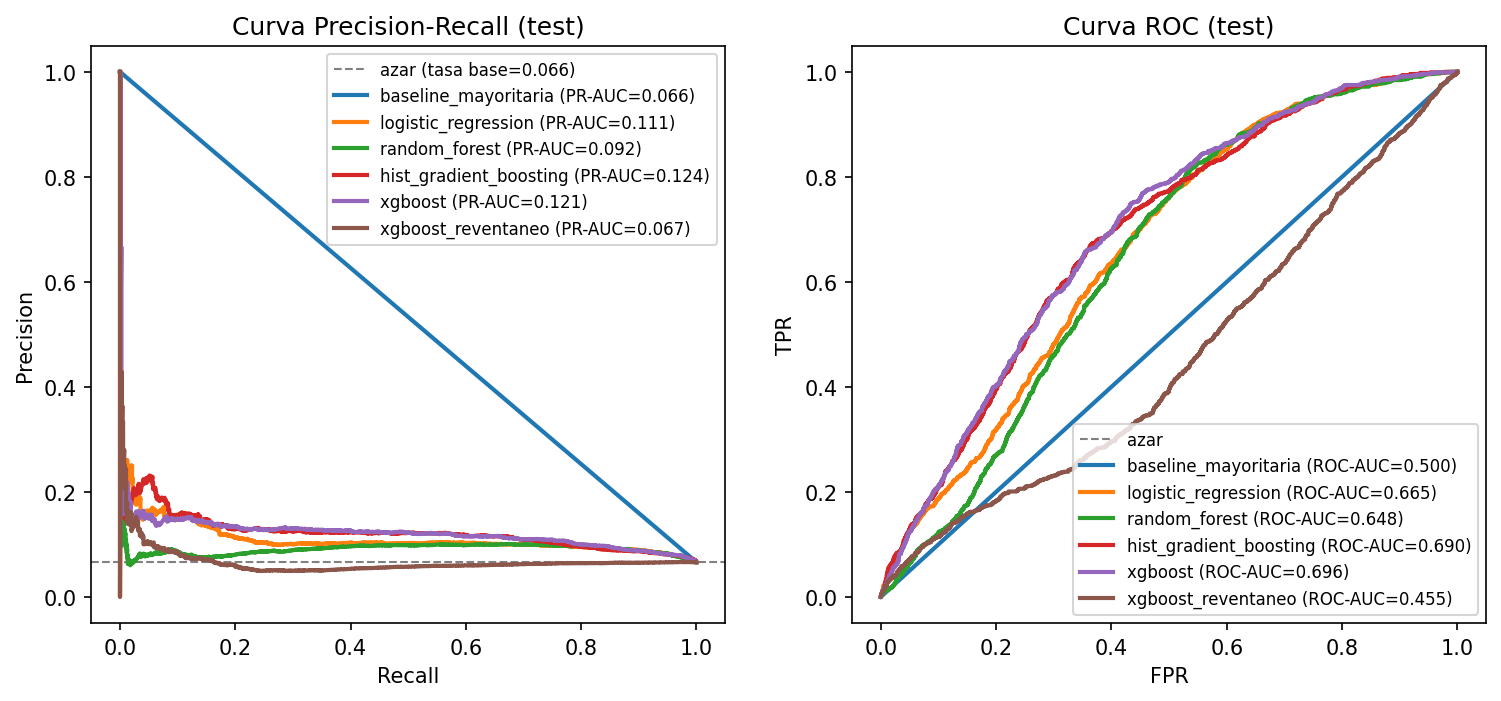
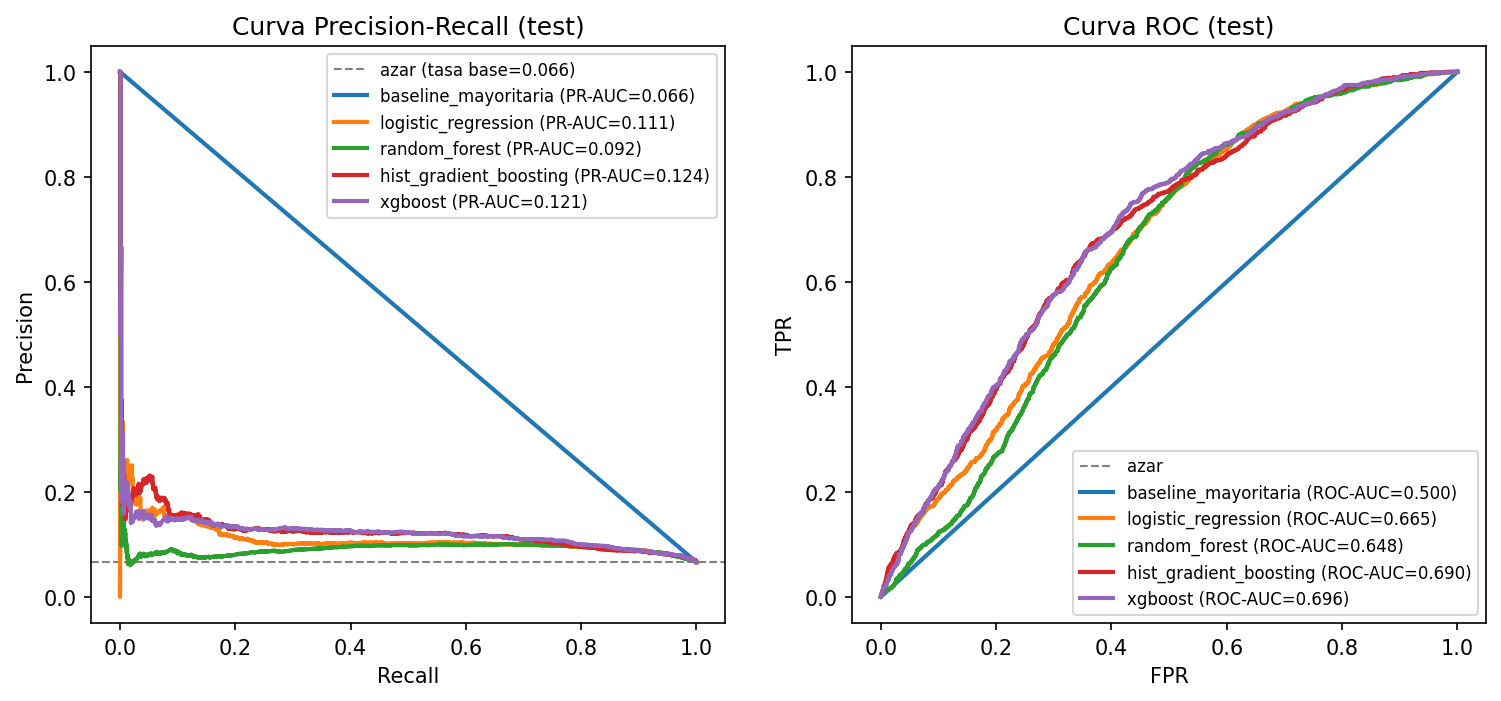
fix(modeling): atender revision de Amaury (figuras) y agregar CV temporal
- Region (03): tasa real y recall en paneles SEPARADOS; el recall ahora usa el
  modelo recomendado en su punto de operacion (antes binario @user, subestimaba).
- Nueva fig 07: recall comparado por modelo (umbral F1).
- Nueva fig 08: matrices de confusion binarias por CADA modelo, en el punto de
  despliegue (recall~0.80).
- Nueva fig 09: validacion cruzada TEMPORAL (TimeSeriesSplit) para robustez
  estacional; revela periodos atipicos (tasa base 4.5% -> 17.2% -> 6%).
- Reporte: nota de que la regresion es ranqueador de riesgo calibrado (no
  estimador de dias) y aclaracion de los puntos de operacion entre figuras.
- evaluate.py: helpers de graficas (region separada, recall por modelo, CM
  binarias, CV temporal) -- aditivo. pytest 5/5; metricas verificadas vs JSON.

diff --git a/src/models/train_multimodelo.py b/src/models/train_multimodelo.py
@@ -61,6 +61,7 @@ from sklearn.metrics import (  # noqa: E402
     brier_score_loss,
     roc_auc_score,
 )
+from sklearn.model_selection import TimeSeriesSplit  # noqa: E402
 from sklearn.pipeline import Pipeline  # noqa: E402
 from sklearn.utils.class_weight import compute_sample_weight  # noqa: E402
 from xgboost import XGBClassifier, XGBRegressor  # noqa: E402
@@ -250,14 +251,29 @@ def run_binario(train, val, test) -> dict:
     tabla_cold = ev.analisis_cold_start(test, y_te, proba_test_all[mejor], umbral_f1)
 
     # --- Figuras ----------------------------------------------------------- #
-    curvas = {k: v for k, v in proba_test_all.items() if not k.endswith("_calibrado")}
+    FAMILIAS = ["logistic_regression", "random_forest", "hist_gradient_boosting", "xgboost"]
+    curvas = {k: v for k, v in proba_test_all.items() if not k.endswith(("_calibrado", "_reventaneo"))}
     ev.graficar_curvas_pr_roc(curvas, y_te, FIG_DIR)
     cal_plot = {mejor: proba_test_all[mejor]}
     if calib["ok"]:
         cal_plot[f"{mejor}_calibrado"] = proba_test_all[f"{mejor}_calibrado"]
     ev.graficar_calibracion(cal_plot, y_te, FIG_DIR)
     ev.graficar_importancias(importancias, f"Importancias — {mejor} (binario)", FIG_DIR, "04_importancias_binario.png")
-    ev.graficar_error_regional(tabla_region, FIG_DIR)
+    # (revisión Amaury #1) La figura por región (03) se genera en run_regresion con el
+    # MODELO RECOMENDADO en su punto de operación (no el binario @F1, que subestima el recall).
+    # (revisión Amaury #2) recall comparado por modelo
+    ev.graficar_recall_por_modelo({n: resultados[n]["test"] for n in FAMILIAS}, FIG_DIR, "07_recall_por_modelo.png")
+    # (revisión Amaury #3) matriz de confusión binaria por CADA modelo, en el punto de
+    # operación que se desplegaría (alto recall), no el umbral F1 que subestima la tardanza.
+    RECALL_CM = 0.80
+    preds_por_modelo = {
+        n: (proba_test_all[n] >= ev.umbral_para_recall(y_va, proba_val_all[n], RECALL_CM)).astype(int)
+        for n in FAMILIAS
+    }
+    ev.graficar_matrices_confusion_binarias(
+        preds_por_modelo, y_te, FIG_DIR, "08_matrices_confusion_binarias.png",
+        subtitulo=f"punto recall≈{RECALL_CM:.2f} (el que se desplegaría)",
+    )
 
     # --- Serialización ----------------------------------------------------- #
     ARTIFACTS.mkdir(parents=True, exist_ok=True)
@@ -464,6 +480,16 @@ def run_regresion(train, val, test) -> dict:
     print(f"  modelo de riesgo confiable: ROC={riesgo['roc_auc']:.3f} PR-AUC={riesgo['pr_auc']:.3f} "
           f"Brier={riesgo['brier']:.3f}  (regresion calibrada)")
 
+    # (revisión Amaury #1) Recall por región DEL MODELO RECOMENDADO en su punto de operación
+    # (recall≈0.70). Reemplaza la versión que usaba el binario @F1 (subestimaba el recall).
+    u_fig = puntos["recall_obj_70"]["umbral"]
+    pred_fig = (pte >= u_fig).astype(int)
+    tabla_region_riesgo = ev.analisis_por_region(test, y_te_bin, pred_fig)
+    ev.graficar_region_separado(
+        tabla_region_riesgo, FIG_DIR, "03_region_separado.png",
+        etiqueta_recall="modelo recomendado (regresión calibrada) · punto recall≈0.70",
+    )
+
     ARTIFACTS.mkdir(parents=True, exist_ok=True)
     joblib.dump(
         {
@@ -582,6 +608,12 @@ def escribir_reporte(salida: dict) -> None:
     L.append(f"\n- **Binario derivado** (predecir días y alertar si > 0): PR-AUC **{d['pr_auc']:.4f}**, "
              f"ROC-AUC **{d['roc_auc']:.4f}**, recall(umbral 0) {d['recall_umbral0']:.3f}. "
              "Vía alternativa al clasificador directo.")
+    L.append("\n> **Importante (interpretación):** la regresión se usa como **ranqueador de riesgo** "
+             "(su salida se **calibra** a probabilidad de retraso), **NO** como estimador de los días "
+             "exactos. Por la cola pesada y el techo de datos, *encoge* las predicciones hacia el promedio "
+             "y **subestima la magnitud de los tardíos** (ver `06_regresion_pred_vs_real.png`: las órdenes "
+             "muy tardías se predicen cerca de 0). Por eso se opera con el **umbral calibrado**, no con "
+             "`días>0` (que daría recall ≈0.03).")
     L.append("")
     r = rg["modelo_riesgo_confiable"]
     L.append("## 4. Modelo de riesgo CONFIABLE (recomendado)\n")
@@ -597,17 +629,72 @@ def escribir_reporte(salida: dict) -> None:
     L.append("\n> **Hallazgo (D-32):** añadir features [t0] derivadas (tasas point-in-time por ruta/categoría, "
              "estacionalidad) **no mejora** — degrada el test (ROC 0.696→0.591) por drift de régimen (R-14). "
              "El techo de P1 lo fijan los datos, no el modelado.\n")
+    cvd = salida.get("cv_temporal")
+    if cvd:
+        L.append("## 5. Validación cruzada TEMPORAL (robustez ante estacionalidad)\n")
+        L.append("TimeSeriesSplit (5 folds) sobre la serie ordenada por fecha: cada fold entrena en el "
+                 "pasado y evalúa en el período siguiente (no es aleatoria; no sustituye al test). "
+                 "Comprueba si los modelos aguantan los cambios estacionales/atípicos de la serie (R-14).\n")
+        L.append("| Modelo | ROC-AUC medio | ± std | PR-AUC medio | ± std |")
+        L.append("|---|---|---|---|---|")
+        for m, dd in cvd.items():
+            L.append(f"| {m} | {dd['roc_auc_media']:.3f} | {dd['roc_auc_std']:.3f} | "
+                     f"{dd['pr_auc_media']:.3f} | {dd['pr_auc_std']:.3f} |")
+        L.append("\nDesviación baja ⇒ modelo robusto entre períodos. Ver `figuras/09_cv_temporal.png` "
+                 "(la línea de tasa base muestra dónde están los períodos atípicos).\n")
+
     L.append("## Artefactos y figuras\n")
     L.append("- Modelos: `artifacts/modelo_riesgo_p1.joblib` (recomendado), `modelo_binario.joblib`, "
              "`modelo_multiclase.joblib`, `modelo_regresion.joblib`.")
-    L.append("- Figuras: `reports/multimodelo/figuras/` (curvas PR/ROC, calibración, importancias, "
-             "matriz de confusión, regresión pred-vs-real, error regional).")
+    L.append("- Figuras: `reports/multimodelo/figuras/` — curvas PR/ROC (01), calibración (02), "
+             "región tasa-real vs recall **separadas** (03), importancias (04), confusión multiclase (05), "
+             "regresión pred-vs-real (06), **recall por modelo** (07), **matrices de confusión binarias por "
+             "modelo** (08), **CV temporal** (09).")
+    L.append("- **Punto de operación en cada figura (a propósito difieren):** la **03** usa el modelo "
+             "recomendado en su punto de despliegue (recall≈0.70); la **07** compara los modelos en su "
+             "umbral **F1** (recall natural, para rankearlos); la **08** usa el punto de **despliegue "
+             "(recall≈0.80)**. Por eso el recall no es el mismo entre figuras: cada una responde a una "
+             "pregunta distinta.")
     L.append("- Métricas reproducibles: `reports/multimodelo/metrics_multimodelo.json`.\n")
     L.append("*Mismas features [t0] y split temporal de la Etapa 3; sin fuga. Reproducible con "
              "`python -m src.models.train_multimodelo`.*")
 
     with open(REPORTS / "resultados_multimodelo.md", "w", encoding="utf-8") as f:
         f.write("\n".join(L))
+
+
+# --------------------------------------------------------------------------- #
+# Validación cruzada TEMPORAL (robustez ante estacionalidad) — revisión Amaury #4
+# --------------------------------------------------------------------------- #
+def cross_validation_temporal(df, n_splits: int = 5) -> dict:
+    """TimeSeriesSplit sobre la serie completa ordenada por fecha.
+
+    Diagnóstico de robustez: cada fold entrena en el pasado y evalúa en el bloque
+    siguiente (un período/temporada distinto). NO es validación aleatoria (eso
+    reintroduciría fuga temporal, D-25) y NO sustituye al test hold-out (que se
+    reporta una sola vez). Sirve para ver si los modelos se mantienen estables
+    ante los cambios estacionales / comportamientos atípicos de la serie (R-14).
+    """
+    d = df.sort_values(["order_purchase_timestamp", "order_id"]).reset_index(drop=True)
+    X, y = d[X_COLS], d[CLASSIFICATION_TARGET].values
+    tscv = TimeSeriesSplit(n_splits=n_splits)
+    familias = ["logistic_regression", "random_forest", "hist_gradient_boosting", "xgboost"]
+    cv = {n: {"pr_auc": [], "roc_auc": [], "recall": [], "tasa_base": []} for n in familias}
+    print(f"\n=== Validación cruzada TEMPORAL (TimeSeriesSplit, {n_splits} folds) — robustez estacional ===")
+    for k, (itr, ite) in enumerate(tscv.split(X), 1):
+        ytr, yte = y[itr], y[ite]
+        Xtr, Xte = X.iloc[itr], X.iloc[ite]
+        for nombre, pipe in familias_binario(ytr).items():
+            pipe.fit(Xtr, ytr)
+            u = ev.seleccionar_umbral_f1(ytr, _proba1(pipe, Xtr))
+            m = ev.calcular_metricas(yte, _proba1(pipe, Xte), u)
+            cv[nombre]["pr_auc"].append(m["pr_auc"])
+            cv[nombre]["roc_auc"].append(m["roc_auc"])
+            cv[nombre]["recall"].append(m["recall"])
+            cv[nombre]["tasa_base"].append(float(yte.mean()))
+        print(f"  fold {k}: n_train={len(itr):>6} n_test={len(ite):>5} "
+              f"tasa_base(fold)={yte.mean()*100:4.1f}%  ROC(xgb)={cv['xgboost']['roc_auc'][-1]:.3f}")
+    return cv
 
 
 # --------------------------------------------------------------------------- #
@@ -629,6 +716,18 @@ def run(data_path: Path) -> dict:
         "binario": run_binario(train, val, test),
         "multiclase": run_multiclase(train, val, test),
         "regresion": run_regresion(train, val, test),
+    }
+    cv = cross_validation_temporal(df, n_splits=5)
+    ev.graficar_cv_temporal(cv, FIG_DIR, "09_cv_temporal.png")
+    salida["cv_temporal"] = {
+        m: {
+            "roc_auc_media": float(np.mean(d["roc_auc"])), "roc_auc_std": float(np.std(d["roc_auc"])),
+            "pr_auc_media": float(np.mean(d["pr_auc"])), "pr_auc_std": float(np.std(d["pr_auc"])),
+            "roc_auc_folds": [round(x, 4) for x in d["roc_auc"]],
+            "recall_folds": [round(x, 4) for x in d["recall"]],
+            "tasa_base_folds": [round(x, 4) for x in d["tasa_base"]],
+        }
+        for m, d in cv.items()
     }
     escribir_reporte(salida)
     print(f"\n[ok] reporte -> {REPORTS / 'resultados_multimodelo.md'}")

diff --git a/src/models/evaluate.py b/src/models/evaluate.py
@@ -364,3 +364,103 @@ def graficar_pred_vs_real(
     ax.set(xlabel="Real (días)", ylabel="Predicho (días)", title=titulo)
     ax.legend(fontsize=8)
     _guardar(fig, fig_dir, nombre)
+
+
+# --------------------------------------------------------------------------- #
+# Gráficas pedidas en la revisión de la Etapa 4 (Amaury)
+# --------------------------------------------------------------------------- #
+def graficar_region_separado(tabla: pd.DataFrame, fig_dir: Path, nombre: str, etiqueta_recall: str = "") -> None:
+    """Dos paneles SEPARADOS porque miden cosas distintas:
+    (izq) % real de entregas tardías por región; (der) recall del modelo por región.
+    No se superponen para no sugerir que son comparables en el mismo eje.
+    """
+    t = tabla[tabla["region"] != "Otro"].copy().sort_values("tasa_tarde_real", ascending=False)
+    fig, (ax1, ax2) = plt.subplots(1, 2, figsize=(13, 5))
+    ax1.bar(t["region"], t["tasa_tarde_real"] * 100, color="#c0504d")
+    ax1.set(title="Tasa REAL de entregas tardías por región",
+            ylabel="% de órdenes que llegan tarde", xlabel="Región")
+    for i, v in enumerate(t["tasa_tarde_real"]):
+        ax1.text(i, v * 100, f"{v*100:.1f}%", ha="center", va="bottom", fontsize=9)
+    ax2.bar(t["region"], t["recall_tarde"], color="#2b6cb0")
+    titulo_recall = ("RECALL por región — " + etiqueta_recall) if etiqueta_recall else \
+        "RECALL del modelo por región (capacidad de detección)"
+    ax2.set(title=titulo_recall,
+            ylabel="Recall (fracción de tardíos detectados)", xlabel="Región", ylim=(0, 1))
+    for i, v in enumerate(t["recall_tarde"]):
+        if not np.isnan(v):
+            ax2.text(i, v, f"{v:.2f}", ha="center", va="bottom", fontsize=9)
+    fig.suptitle("Por región: la TASA REAL (qué tan tarde llega) y el RECALL (cuánto detecta el "
+                 "modelo) son métricas distintas — se grafican por separado", fontsize=10)
+    _guardar(fig, fig_dir, nombre)
+
+
+def graficar_recall_por_modelo(metricas_por_modelo: dict, fig_dir: Path, nombre: str) -> None:
+    """Compara entre modelos del binario (test, umbral F1): recall, precision y PR-AUC."""
+    nombres = list(metricas_por_modelo.keys())
+    recall = [metricas_por_modelo[n]["recall"] for n in nombres]
+    prec = [metricas_por_modelo[n]["precision"] for n in nombres]
+    prauc = [metricas_por_modelo[n]["pr_auc"] for n in nombres]
+    x = np.arange(len(nombres)); w = 0.27
+    fig, ax = plt.subplots(figsize=(10, 5.5))
+    ax.bar(x - w, recall, w, label="Recall", color="#2b6cb0")
+    ax.bar(x, prec, w, label="Precision", color="#c0504d")
+    ax.bar(x + w, prauc, w, label="PR-AUC", color="#5a9367")
+    for i in range(len(nombres)):
+        ax.text(x[i] - w, recall[i], f"{recall[i]:.2f}", ha="center", va="bottom", fontsize=8)
+    ax.set_xticks(x, nombres, rotation=20, ha="right")
+    ax.set(title="Comparación por modelo — binario (test, umbral F1)", ylabel="Valor")
+    ax.legend()
+    _guardar(fig, fig_dir, nombre)
+
+
+def graficar_matrices_confusion_binarias(
+    preds_por_modelo: dict, y_true: np.ndarray, fig_dir: Path, nombre: str,
+    subtitulo: str = "umbral F1",
+) -> None:
+    """Una matriz de confusión por CADA modelo binario entrenado (grid, normalizada por fila)."""
+    labels = [0, 1]; nice = ["a tiempo (0)", "tarde (1)"]
+    modelos = list(preds_por_modelo.keys()); n = len(modelos)
+    cols = 2; rows = int(np.ceil(n / cols))
+    fig, axes = plt.subplots(rows, cols, figsize=(5 * cols, 4.3 * rows))
+    axes = np.atleast_1d(axes).ravel()
+    for ax, m in zip(axes, modelos):
+        cm = confusion_matrix(y_true, preds_por_modelo[m], labels=labels).astype(float)
+        cmn = cm / cm.sum(axis=1, keepdims=True).clip(min=1e-9)
+        ax.imshow(cmn, cmap="Blues", vmin=0, vmax=1)
+        ax.set_xticks([0, 1], nice, fontsize=8)
+        ax.set_yticks([0, 1], nice, fontsize=8)
+        for i in range(2):
+            for j in range(2):
+                ax.text(j, i, f"{int(cm[i, j])}\n{cmn[i, j]:.2f}", ha="center", va="center",
+                        color="white" if cmn[i, j] > 0.5 else "black", fontsize=9)
+        ax.set(title=m, xlabel="Predicho", ylabel="Real")
+    for ax in axes[n:]:
+        ax.axis("off")
+    fig.suptitle(f"Matrices de confusión por modelo — binario (test, {subtitulo}; normalizadas por fila)", fontsize=11)
+    _guardar(fig, fig_dir, nombre)
+
+
+def graficar_cv_temporal(cv: dict, fig_dir: Path, nombre: str) -> None:
+    """Estabilidad de cada métrica a lo largo de los folds temporales (TimeSeriesSplit).
+
+    `cv` = {modelo: {'pr_auc': [...], 'roc_auc': [...], 'recall': [...], 'tasa_base': [...]}}.
+    Si las líneas se mantienen planas → modelo robusto ante cambios estacionales; si caen en
+    algún fold → sensible al régimen de ese período.
+    """
+    paneles = [("roc_auc", "ROC-AUC"), ("pr_auc", "PR-AUC"), ("recall", "Recall")]
+    fig, axes = plt.subplots(1, 3, figsize=(15, 4.6))
+    for ax, (key, tit) in zip(axes, paneles):
+        for m, d in cv.items():
+            folds = np.arange(1, len(d[key]) + 1)
+            ax.plot(folds, d[key], "o-", lw=1.8, label=m)
+        ax.set(title=f"{tit} por fold", xlabel="Fold temporal (períodos sucesivos →)", ylabel=tit)
+        ax.grid(alpha=0.3)
+    # tasa base por fold (contexto del cambio estacional) en el eje del recall
+    any_model = next(iter(cv.values()))
+    folds = np.arange(1, len(any_model["tasa_base"]) + 1)
+    axes[2].plot(folds, any_model["tasa_base"], "k--", lw=1.2, label="tasa base (real)")
+    axes[0].legend(fontsize=7)
+    axes[2].legend(fontsize=7)
+    fig.suptitle("Validación cruzada TEMPORAL (TimeSeriesSplit) — robustez de los modelos ante "
+                 "cambios estacionales", fontsize=11)
+    _guardar(fig, fig_dir, nombre)

diff --git a/reports/multimodelo/resultados_multimodelo.md b/reports/multimodelo/resultados_multimodelo.md
@@ -2,7 +2,7 @@
 
 ## Vertex Insights — Proyecto Final
 
-**Generado:** 2026-06-29 13:34  
+**Generado:** 2026-06-29 17:36  
 **Datos:** `data\processed\orders_features.csv` (96,470 órdenes; split temporal train/val/test)  
 **Disciplina:** mismas 16 features [t0], split temporal, `test` una sola vez, candado anti-fuga (R-12).
 
@@ -48,6 +48,8 @@ Recall por clase (mejor modelo):
 
 - **Binario derivado** (predecir días y alertar si > 0): PR-AUC **0.1428**, ROC-AUC **0.7563**, recall(umbral 0) 0.027. Vía alternativa al clasificador directo.
 
+> **Importante (interpretación):** la regresión se usa como **ranqueador de riesgo** (su salida se **calibra** a probabilidad de retraso), **NO** como estimador de los días exactos. Por la cola pesada y el techo de datos, *encoge* las predicciones hacia el promedio y **subestima la magnitud de los tardíos** (ver `06_regresion_pred_vs_real.png`: las órdenes muy tardías se predicen cerca de 0). Por eso se opera con el **umbral calibrado**, no con `días>0` (que daría recall ≈0.03).
+
 ## 4. Modelo de riesgo CONFIABLE (recomendado)
 
 Score de la regresión calibrado a P(tarde) (isotónica en `val`). Es el de mayor discriminación y mejor calibrado: **PR-AUC 0.1323**, **ROC-AUC 0.7421**, **Brier 0.0629** (vs Etapa 4: 0.124 / 0.703 / 0.186).
@@ -62,10 +64,24 @@ Artefacto: `artifacts/modelo_riesgo_p1.joblib` (regresor + calibrador isotónico
 
 > **Hallazgo (D-32):** añadir features [t0] derivadas (tasas point-in-time por ruta/categoría, estacionalidad) **no mejora** — degrada el test (ROC 0.696→0.591) por drift de régimen (R-14). El techo de P1 lo fijan los datos, no el modelado.
 
+## 5. Validación cruzada TEMPORAL (robustez ante estacionalidad)
+
+TimeSeriesSplit (5 folds) sobre la serie ordenada por fecha: cada fold entrena en el pasado y evalúa en el período siguiente (no es aleatoria; no sustituye al test). Comprueba si los modelos aguantan los cambios estacionales/atípicos de la serie (R-14).
+
+| Modelo | ROC-AUC medio | ± std | PR-AUC medio | ± std |
+|---|---|---|---|---|
+| logistic_regression | 0.691 | 0.046 | 0.170 | 0.085 |
+| random_forest | 0.670 | 0.034 | 0.167 | 0.086 |
+| hist_gradient_boosting | 0.671 | 0.023 | 0.164 | 0.074 |
+| xgboost | 0.675 | 0.026 | 0.173 | 0.085 |
+
+Desviación baja ⇒ modelo robusto entre períodos. Ver `figuras/09_cv_temporal.png` (la línea de tasa base muestra dónde están los períodos atípicos).
+
 ## Artefactos y figuras
 
 - Modelos: `artifacts/modelo_riesgo_p1.joblib` (recomendado), `modelo_binario.joblib`, `modelo_multiclase.joblib`, `modelo_regresion.joblib`.
-- Figuras: `reports/multimodelo/figuras/` (curvas PR/ROC, calibración, importancias, matriz de confusión, regresión pred-vs-real, error regional).
+- Figuras: `reports/multimodelo/figuras/` — curvas PR/ROC (01), calibración (02), región tasa-real vs recall **separadas** (03), importancias (04), confusión multiclase (05), regresión pred-vs-real (06), **recall por modelo** (07), **matrices de confusión binarias por modelo** (08), **CV temporal** (09).
+- **Punto de operación en cada figura (a propósito difieren):** la **03** usa el modelo recomendado en su punto de despliegue (recall≈0.70); la **07** compara los modelos en su umbral **F1** (recall natural, para rankearlos); la **08** usa el punto de **despliegue (recall≈0.80)**. Por eso el recall no es el mismo entre figuras: cada una responde a una pregunta distinta.
 - Métricas reproducibles: `reports/multimodelo/metrics_multimodelo.json`.
 
 *Mismas features [t0] y split temporal de la Etapa 3; sin fuga. Reproducible con `python -m src.models.train_multimodelo`.*